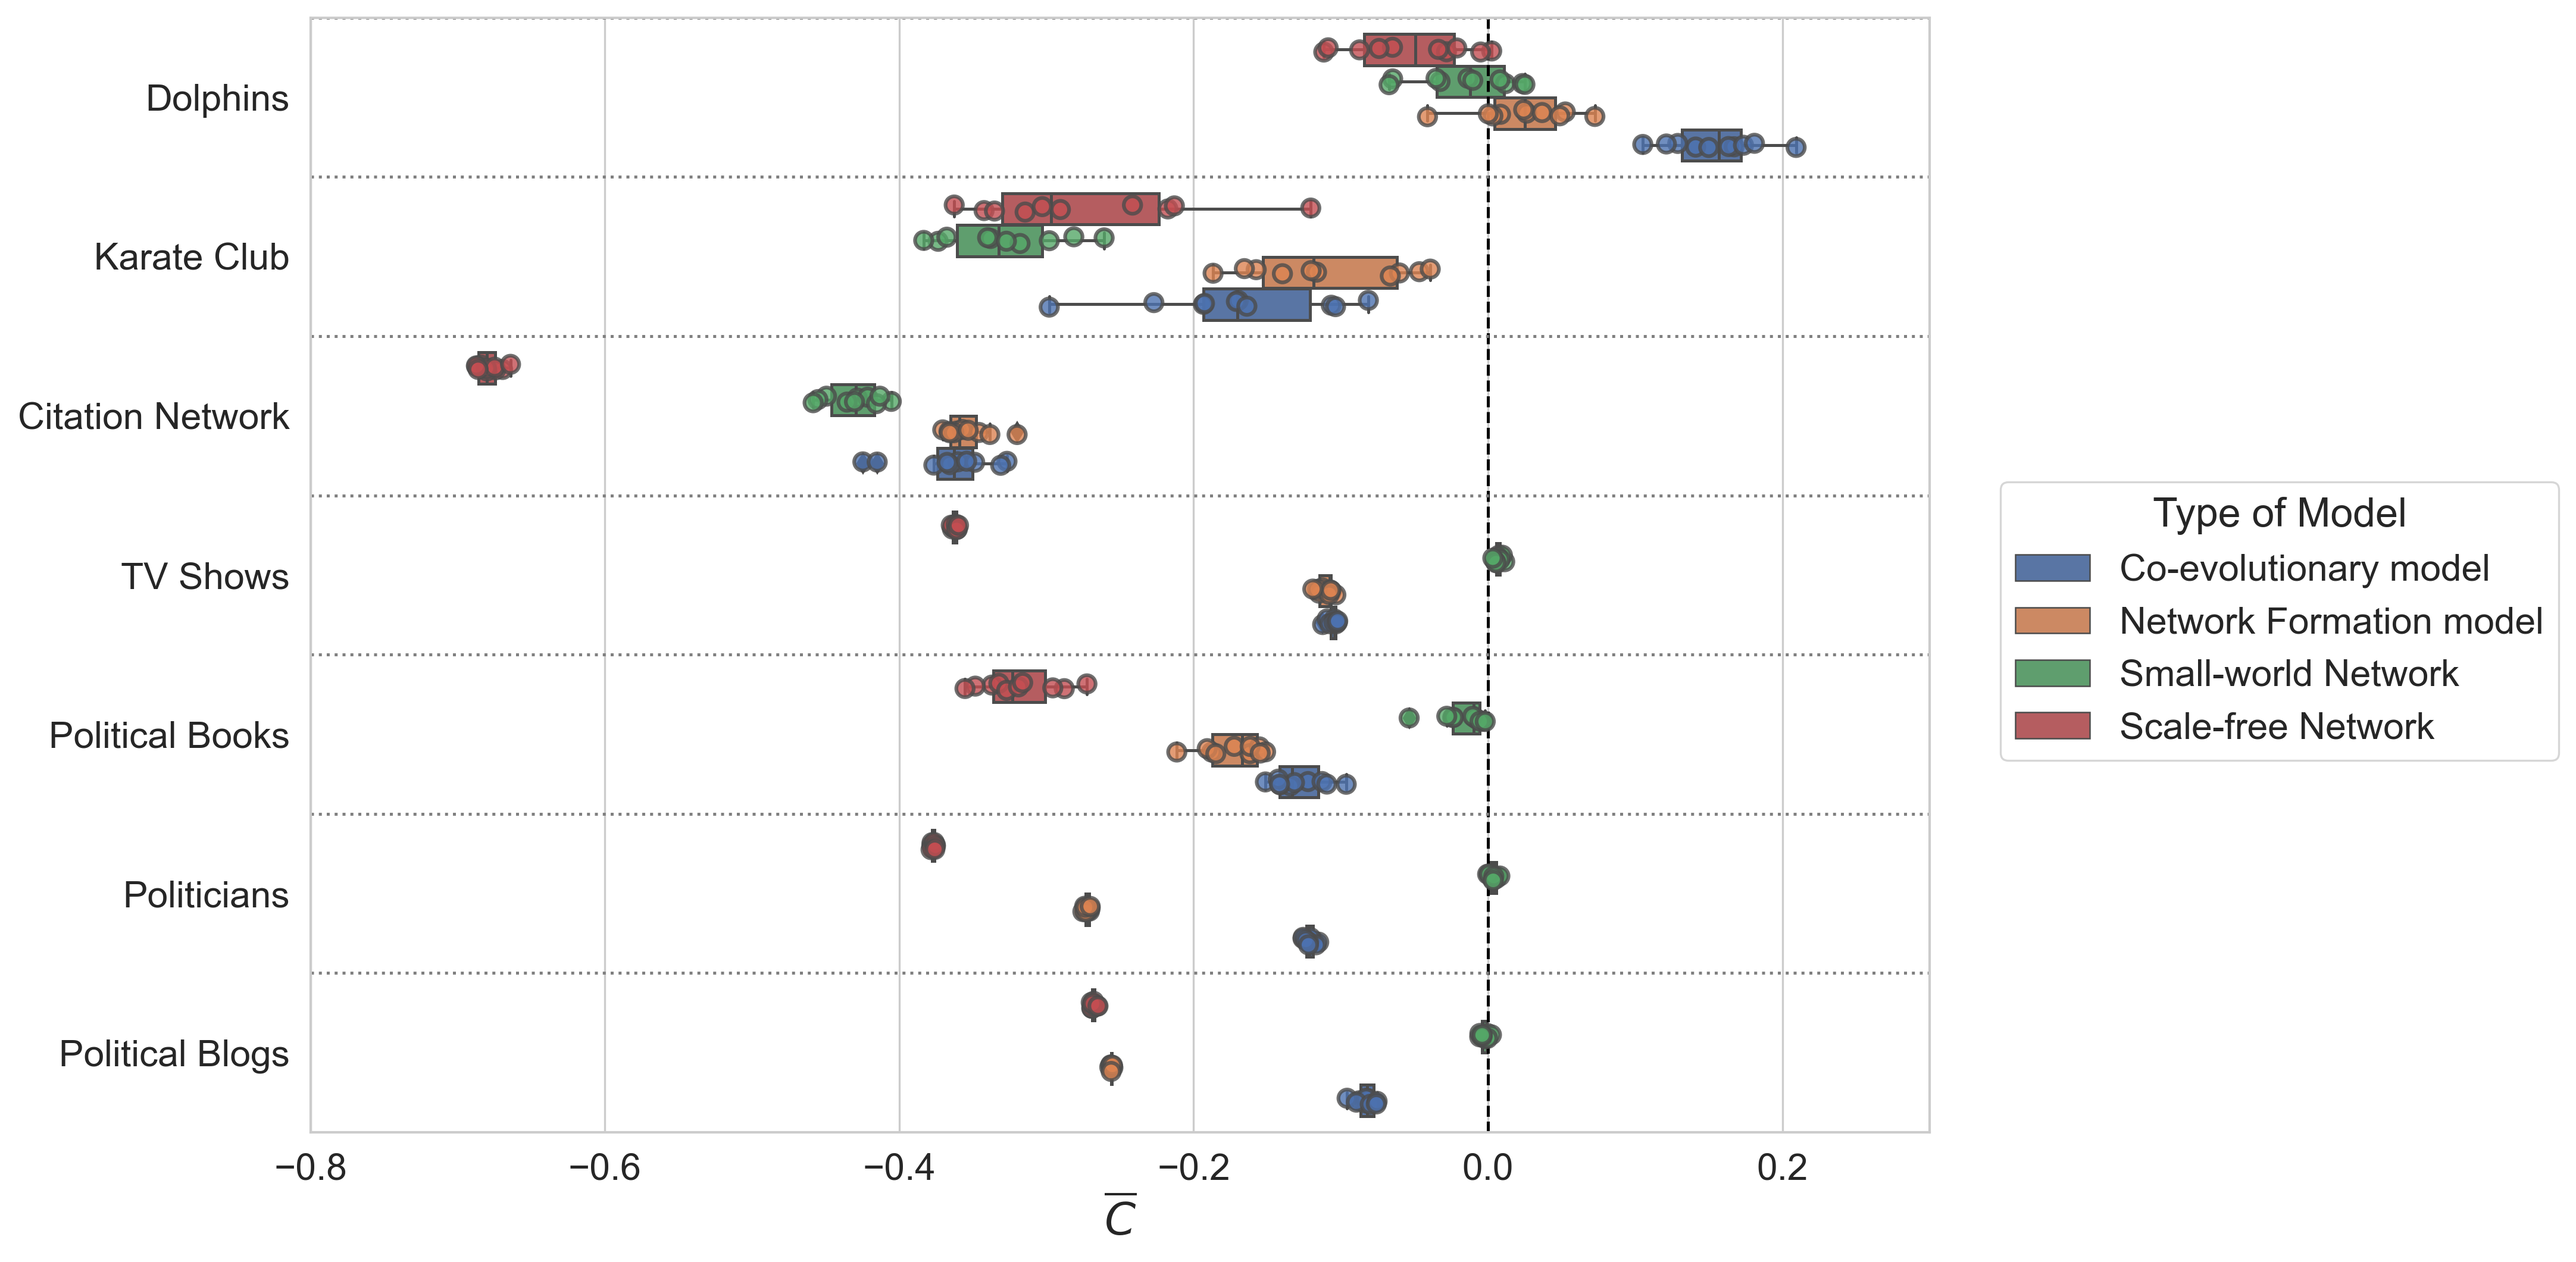
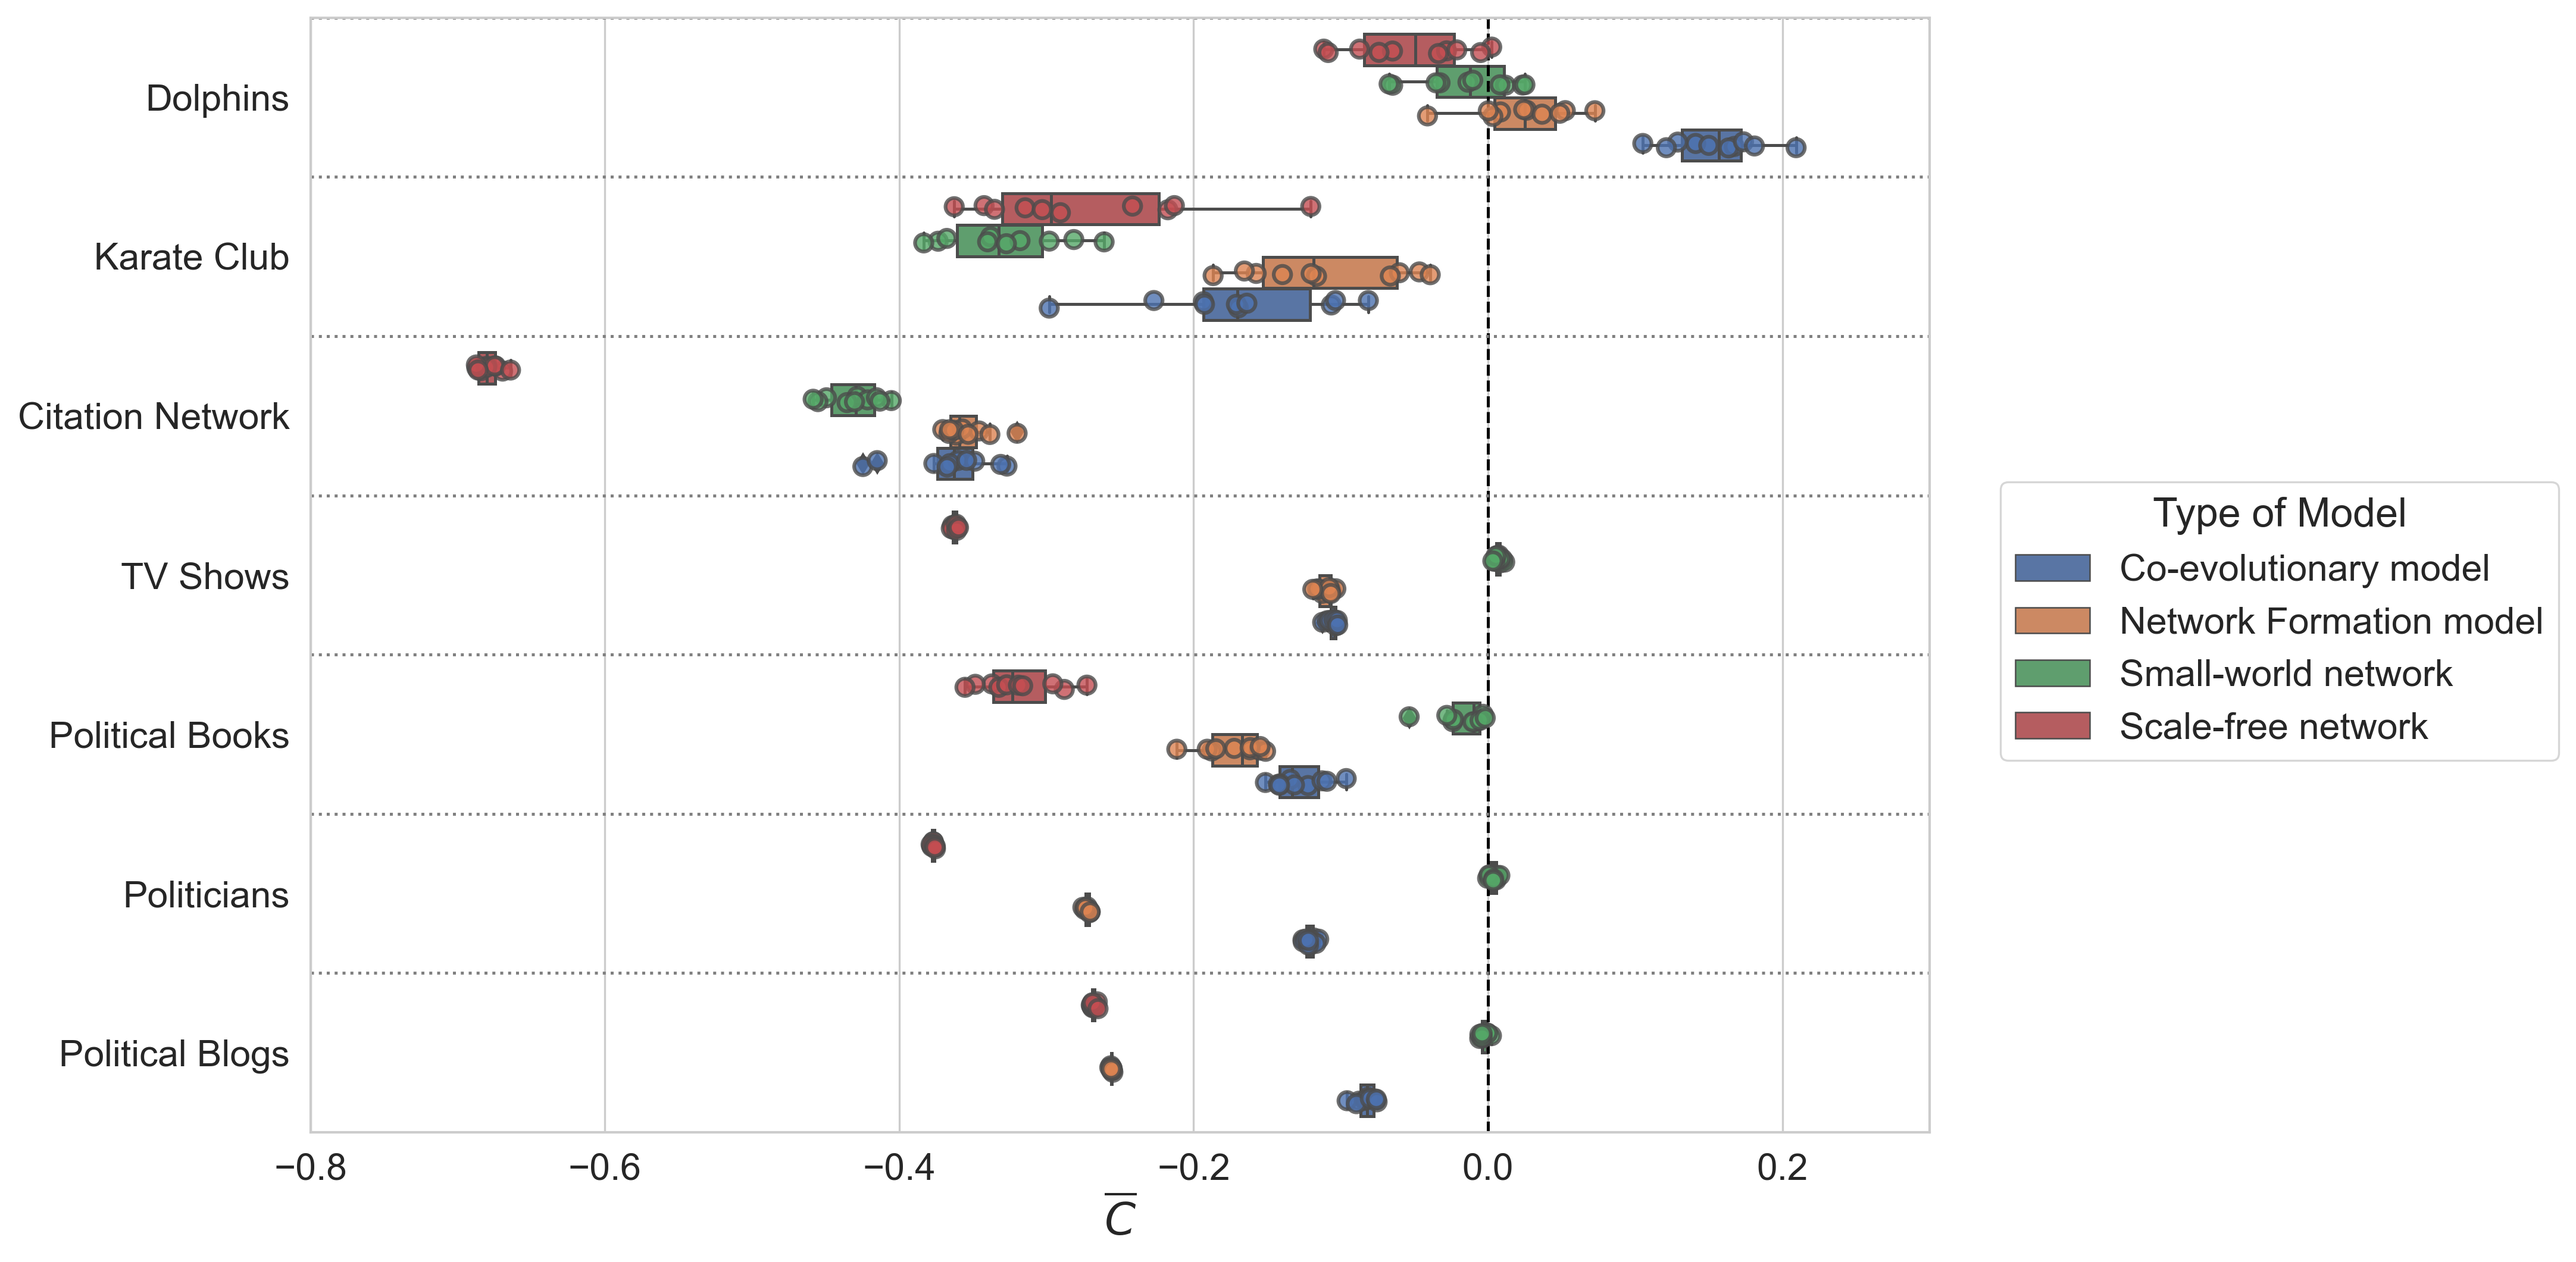
relabel plots

diff --git a/LaDoN/ladon/evaluate.py b/LaDoN/ladon/evaluate.py
@@ -44,8 +44,10 @@ def change_labels(string: str):
         return "Network Formation model"
     elif string == "Target":
         return "Empirical network"
-    else:
-        return string
+    elif string == "Small-world Network":
+        return "Small-world network"
+    elif string == "Scale-free Network":
+        return "Scale-free network"
 
 
 def change_network_labels(string: str):
@@ -103,36 +105,73 @@ data.query("type != 'Empirical network'").groupby("type").agg(
 
 data_melt = data.melt(id_vars=["type", "assortativity", "network", "run"])
 
-g = sns.catplot(
+sns.set_context(
+    "paper",
+    rc={
+        "figure.figsize": (11.7, 8.27),
+        "font.size": 13,
+        "axes.titlesize": 17,
+        "axes.labelsize": 14,
+    },
+    font_scale=1.3,
+)
+
+import ptitprince as pt
+
+g = sns.FacetGrid(
     data=data_melt.query("type != 'Empirical network'"),
-    y="type",
-    x="value",
     col="variable",
     sharex=False,
-    kind="violin",
+    height=4,
+    gridspec_kws={"wspace": 0.1},
+    legend_out=True,
+)
+# f, ax = plt.subplots(figsize=(7, 5))
+
+g.map(
+    pt.half_violinplot,
+    "value",
+    "type",
+    bw=0.2,
+    cut=0.0,
+    scale="area",
+    width=0.6,
+    inner=None,
+    palette=sns.color_palette(n_colors=4),
 )
 g.map(
     sns.stripplot,
     "value",
     "type",
-    "type",
-    # color="black",
     edgecolor="gray",
-    linewidth=1.5,
+    size=2,
     jitter=1,
-    # color="black",
-    alpha=0.8,
-    size=1,
+    zorder=0,
+    palette=sns.color_palette(n_colors=4),
 )
+
 g.set_ylabels("")
 g.set_titles("")
 for ax, name in zip(
     g.axes.flatten(), [r"$\overline{C}$", r"$APL*$", r"$JSD$", r"$O(A,G)$"]
 ):
     ax.set_xlabel(name)
+g.axes[0][2].set(xlim=(0, 0.8))
+
+g.tight_layout()
 
 g.savefig("plots/overall/Model_Evaluation_Overview", dpi=300)
-# g.set_xticklabels(rotation=80)
+
+sns.set_context(
+    "paper",
+    rc={
+        "figure.figsize": (11.7, 8.27),
+        "font.size": 13,
+        "axes.titlesize": 17,
+        "axes.labelsize": 18,
+    },
+    font_scale=1.7,
+)
 
 g = sns.boxplot(
     data=data.query("type != 'Empirical network'"),
